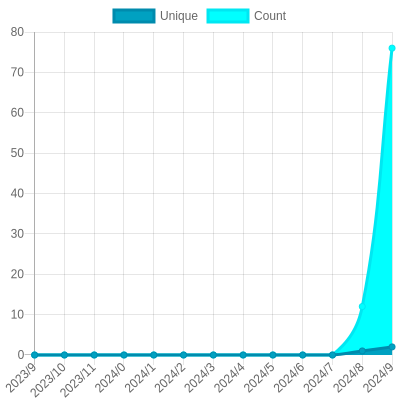
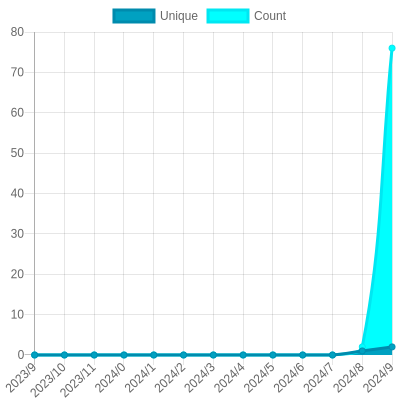
Update views

Changed region(s): [[0.84, 0.3, 0.96, 0.9], [0.96, 0.15, 0.99, 0.3]]

diff --git a/readme/698313042/year.md b/readme/698313042/year.md
@@ -37,7 +37,7 @@
 			<code>1</code>
 		</td>
 		<td>
-			<code>12</code>
+			<code>2</code>
 		</td>
 	</tr>
 	<tr>
@@ -164,7 +164,7 @@
 </table>
 
 </details>
-<small><i>Last updated on 2023/10/13 12:14 PM UTC</i></small>
+<small><i>Last updated on 2023/10/13 6:10 PM UTC</i></small>
 
 ## ✂Copy and 📋 Paste
 ### SVG Badge

diff --git a/README.md b/README.md
@@ -37,7 +37,7 @@ The project created and maintained by [gayanvoice](https://github.com/gayanvoice
 	</tr>
 </table>
 
-<small><i>Last updated on 2023/10/13 12:14 PM UTC</i></small>
+<small><i>Last updated on 2023/10/13 6:10 PM UTC</i></small>
 
 ## ✂Copy and 📋 Paste
 ### Total Views Badge
